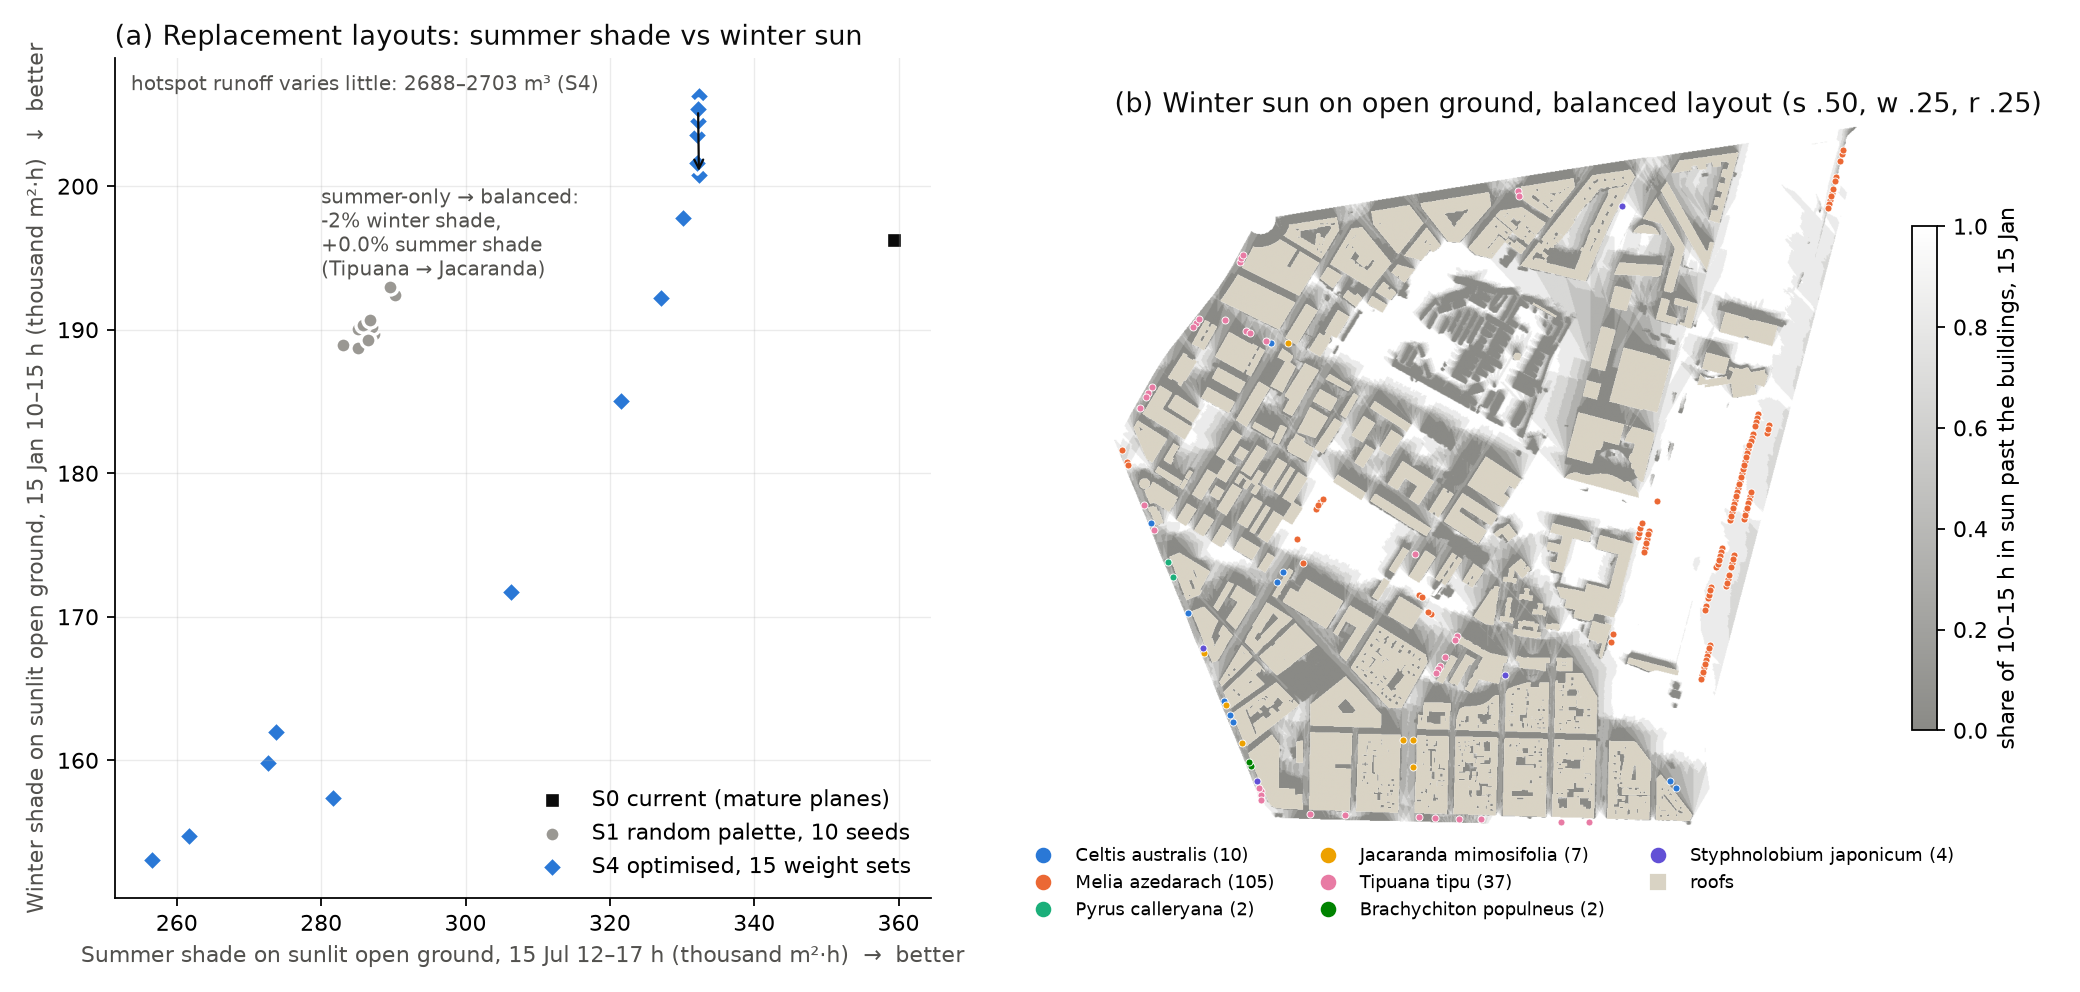
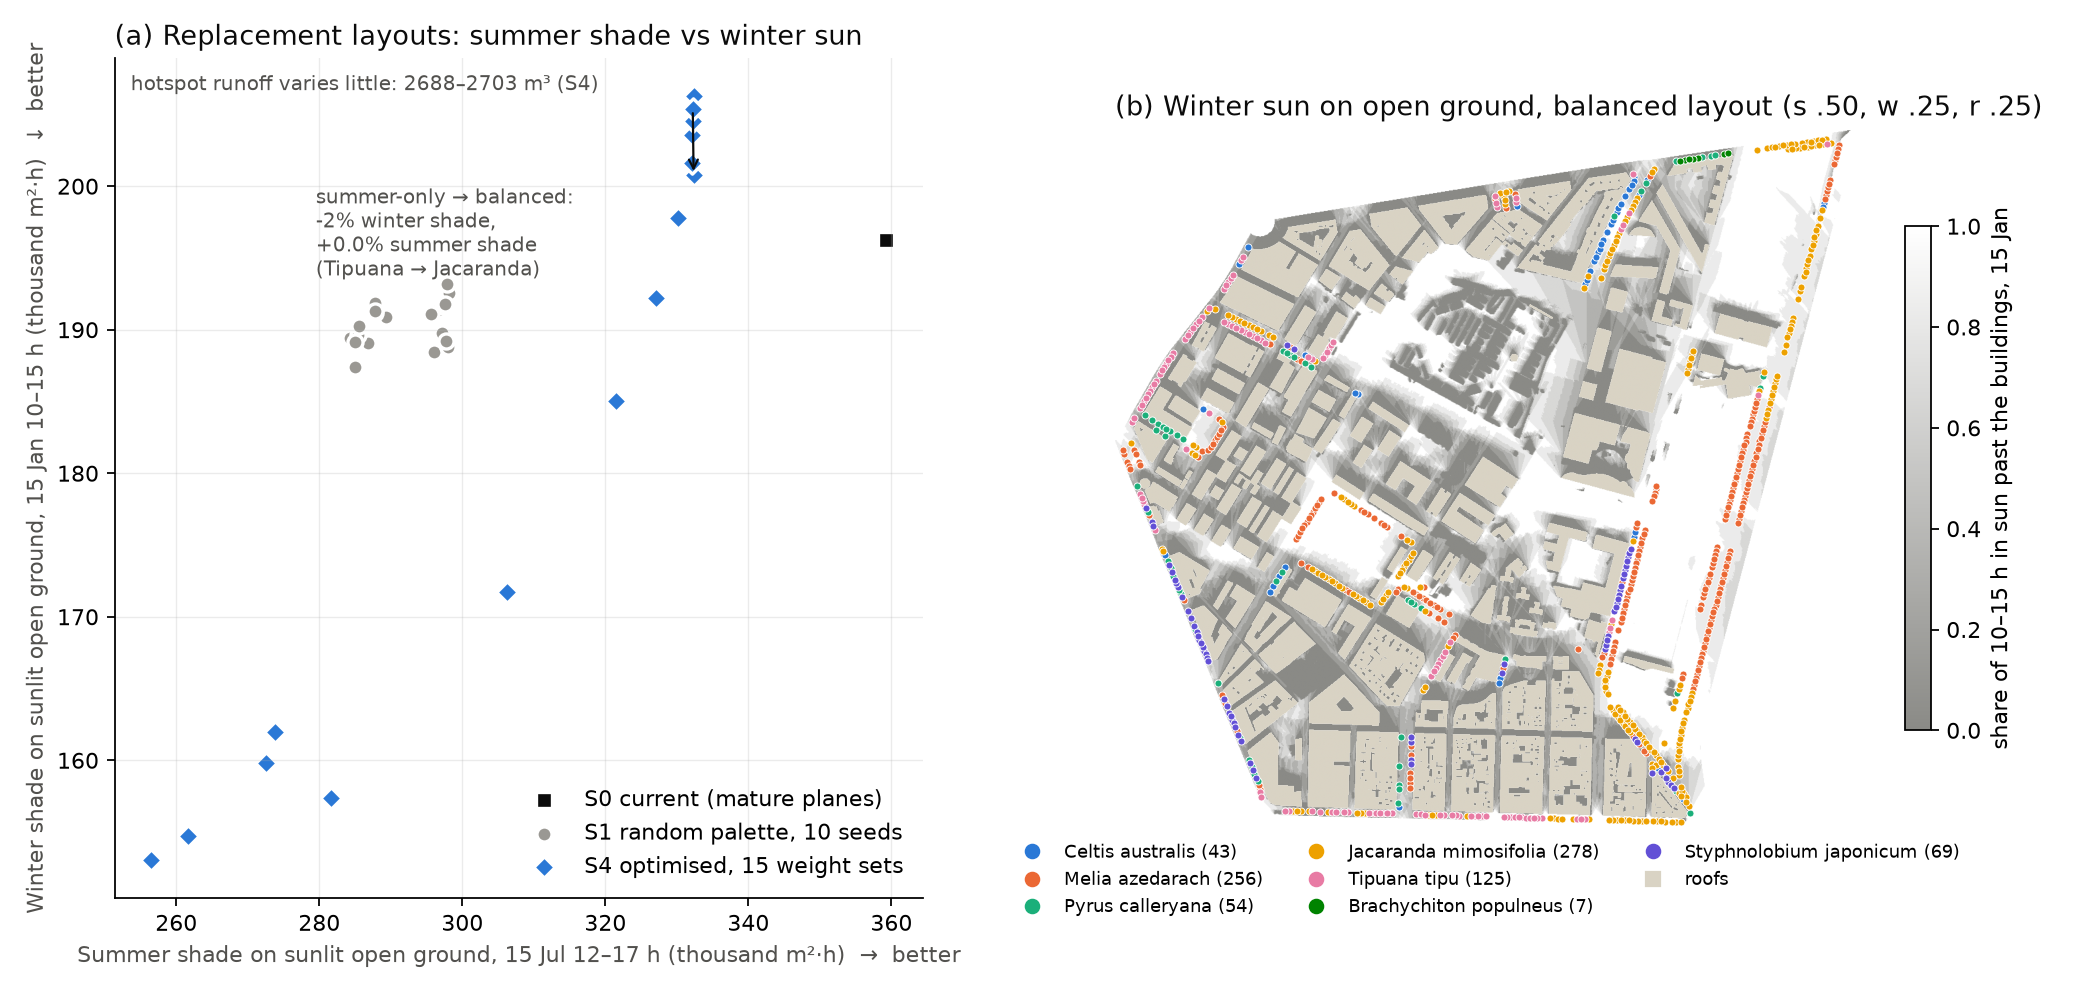
Refresh the tool v0 figure, slide 15 and the study guide after the 26 Oct re-run
tool_v0.png: S1 random points re-drawn. Slide 15 still quoted the 15 Oct
sensitivity: winter gain now -0.4 to +8.9% (was -0.8 to +7.9%), trade-off
-20% / -18% (was -18% / -18%), winter/summer ratio 1.1 base, 0.8-1.3 across
variants (was one for one, 0.6-1.0). Guide numbers table: -20% / -18%.
slides/outline_20oct.md is left as the record of the 20 Oct talk.

diff --git a/scripts/make_infographics.py b/scripts/make_infographics.py
@@ -719,11 +719,11 @@ def fig_runoff_result():
 def fig_shade_result():
     result_slide(
         "15_shade_result", "First result: the shade trade-off is real",
-        "Tool v0 over the seven candidate species, with the photo-based leaf calendar (re-run 15 Oct)",
+        "Tool v0 over the seven candidate species, with the photo-based leaf calendar (re-run 26 Oct)",
         "tool_v0.png",
         ((TREE, "+16%", "summer shade, optimised against a random palette \u2014 robust across all 8 sensitivity variants"),
-         (WARN, "no winter gain", "the same layout is about equal or worse in winter shade (\u22120.8 to +7.9%)"),
-         (HEAT, "\u221218% / \u221218%", "beyond the balanced layout, winter shade bought with summer shade: one for one in the base run, 0.6\u20131.0 across variants"),
+         (WARN, "no winter gain", "the same layout is about equal or worse in winter shade (\u22120.4 to +8.9%)"),
+         (HEAT, "\u221220% / \u221218%", "beyond the balanced layout, winter shade bought with summer shade: 1.1 to 1 in the base run, 0.8\u20131.3 across variants"),
          (INK, "\u22127.5%", "even with mature replacement crowns, no layout reaches the planes standing today")),
         "Shade is the fast proxy, not UTCI: the Ladybug module comes next. Positions are fixed at the 832 plane pits, "
         "so this compares species composition, not placement \u2014 and the leaf calendar it rests on is photo-based "

diff --git a/study/guide.md b/study/guide.md
@@ -535,7 +535,7 @@ Sources: `slides/outline_20oct.md`; the Porta and Barcelona answers from `notes/
 | 78% | Intense storm days in May–Oct |
 | +16% | Summer shade, optimised vs random palette (15 Oct re-run; was +14%) |
 | −2% | Winter shade, no-regret swap Tipuana → Jacaranda (15 Oct re-run; −9% with the old calendar) |
-| −18% / −18% | Winter-heavy vs balanced: winter / summer shade (the trade-off) |
+| −20% / −18% | Winter-heavy vs balanced: winter / summer shade (the trade-off) |
 | 7 | Candidate species (5 named as plane replacements + Jacaranda, Brachychiton, not named as such) |
 | 367 / 5.32 m / 2.12 | *Styphnolobium* LiDAR sample outside Porta (no merged crowns): trees / crown / LAI |
 | 91 m³ | Δmin, runoff part of H1 (0.5% of T2-60 runoff) |
